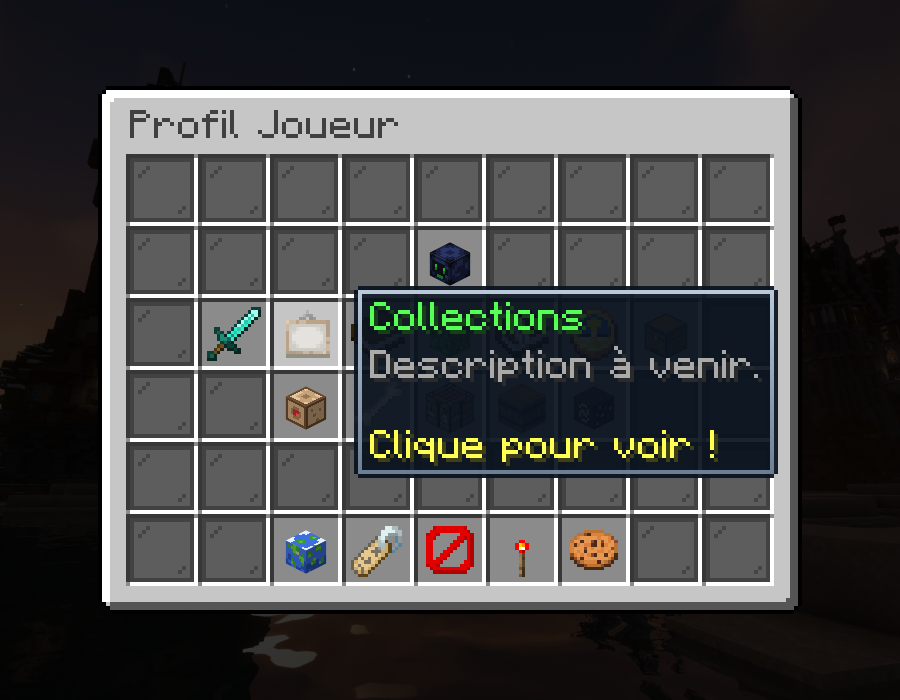
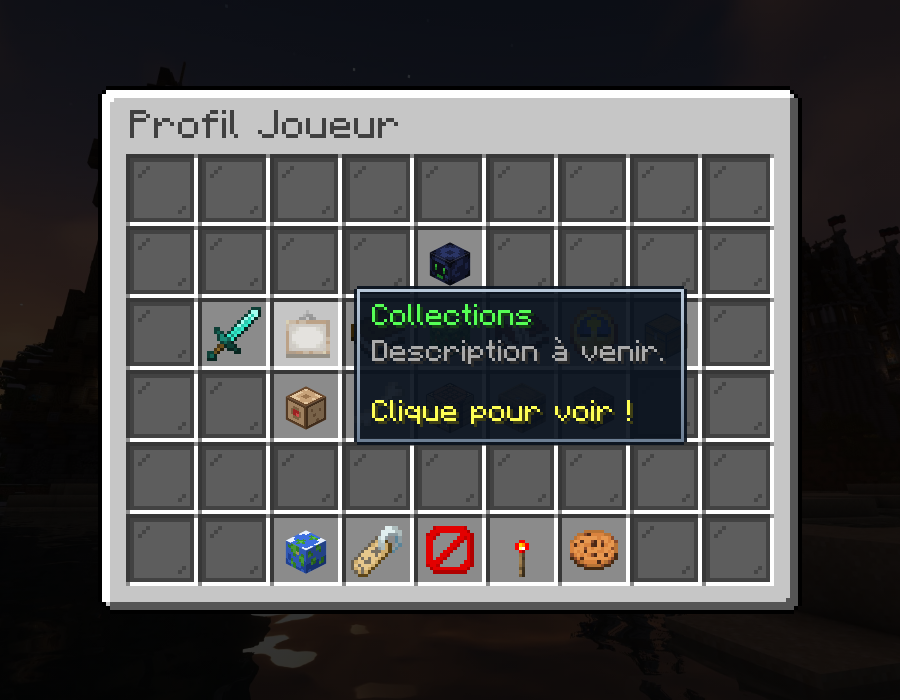
Overlay : texte plus petit et marge intérieure autour du texte
Claude-Session: https://claude.ai/code/session_019gCBZ2Dy19V3W7UiEquzyT

Changed region(s): [[0.3733, 0.39, 0.8711, 0.69]]

diff --git a/index.html b/index.html
@@ -313,30 +313,33 @@ function chestFaces(img) {
 // --- Overlay (tooltip) au survol d'un item ---
 const TOOLTIP_BG = 'rgba(10, 18, 30, 0.93)';
 const TOOLTIP_BORDER_TOP = '#b9c9da', TOOLTIP_BORDER_BOTTOM = '#6d7f94';
+const TOOLTIP_PADDING = 4;   // marge entre la bordure et le texte (pixels GUI)
+// Échelle du texte de l'overlay : plus petite que celle de l'interface.
+const tooltipScale = S => Math.max(2, Math.round(S * 0.65));
 
 function renderTooltip(tipCanvas, font, lines, S) {
   const w = Math.max(...lines.map(l => textWidth(font, l)));
   const h = 8 + (lines.length - 1) * 10 + (lines.length > 1 ? 2 : 0);
-  const x0 = 4, y0 = 4;
-  tipCanvas.width = (w + 8) * S;
-  tipCanvas.height = (h + 8) * S;
+  const edge = 2 + TOOLTIP_PADDING;           // fond (1 px) + bordure (1 px) + marge intérieure
+  const W = w + 1 + 2 * edge, H = h + 1 + 2 * edge;   // +1 : ombre du texte
+  const x0 = edge, y0 = edge;
+  tipCanvas.width = W * S;
+  tipCanvas.height = H * S;
   const ctx = tipCanvas.getContext('2d');
   ctx.imageSmoothingEnabled = false;
   const rect = (x, y, rw, rh, fill) => { ctx.fillStyle = fill; ctx.fillRect(x * S, y * S, rw * S, rh * S); };
 
   // Fond aux coins "coupés" + bordure intérieure en dégradé, comme en jeu.
-  rect(x0 - 3, y0 - 4, w + 6, 1, TOOLTIP_BG);
-  rect(x0 - 3, y0 + h + 3, w + 6, 1, TOOLTIP_BG);
-  rect(x0 - 3, y0 - 3, w + 6, h + 6, TOOLTIP_BG);
-  rect(x0 - 4, y0 - 3, 1, h + 6, TOOLTIP_BG);
-  rect(x0 + w + 3, y0 - 3, 1, h + 6, TOOLTIP_BG);
-  const grad = ctx.createLinearGradient(0, (y0 - 3) * S, 0, (y0 + h + 3) * S);
+  rect(1, 0, W - 2, H, TOOLTIP_BG);
+  rect(0, 1, 1, H - 2, TOOLTIP_BG);
+  rect(W - 1, 1, 1, H - 2, TOOLTIP_BG);
+  const grad = ctx.createLinearGradient(0, S, 0, (H - 1) * S);
   grad.addColorStop(0, TOOLTIP_BORDER_TOP);
   grad.addColorStop(1, TOOLTIP_BORDER_BOTTOM);
-  rect(x0 - 3, y0 - 2, 1, h + 4, grad);
-  rect(x0 + w + 2, y0 - 2, 1, h + 4, grad);
-  rect(x0 - 3, y0 - 3, w + 6, 1, TOOLTIP_BORDER_TOP);
-  rect(x0 - 3, y0 + h + 2, w + 6, 1, TOOLTIP_BORDER_BOTTOM);
+  rect(1, 1, W - 2, 1, TOOLTIP_BORDER_TOP);
+  rect(1, H - 2, W - 2, 1, TOOLTIP_BORDER_BOTTOM);
+  rect(1, 2, 1, H - 4, grad);
+  rect(W - 2, 2, 1, H - 4, grad);
 
   let y = y0;
   lines.forEach((line, i) => {
@@ -410,7 +413,7 @@ function onMove(ev) {
     state.hovered = hovered;
     renderGui();
     if (slot && slot.tooltip) {
-      renderTooltip(tip, font, slot.tooltip, state.S);
+      renderTooltip(tip, font, slot.tooltip, tooltipScale(state.S));
       tip.hidden = false;
     } else tip.hidden = true;
     canvas.style.cursor = hovered ? 'pointer' : '';
